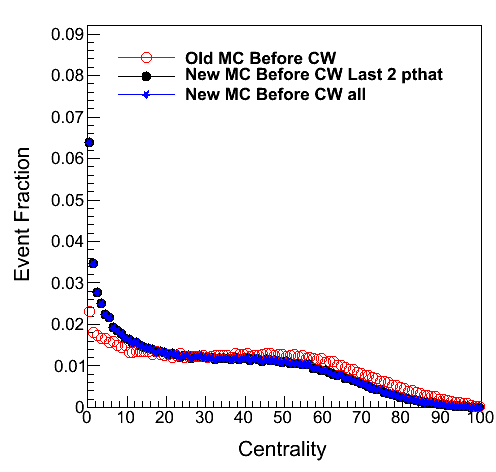
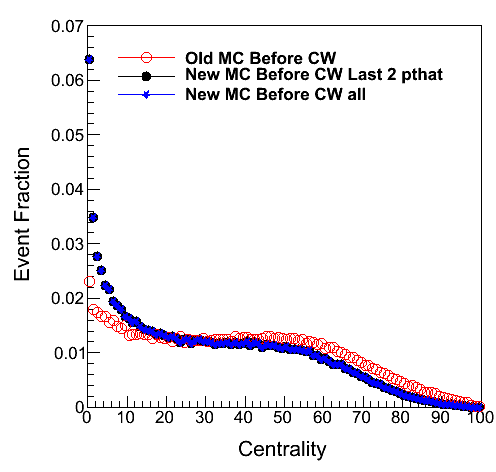
centrality debugging

diff --git a/jetRpA/RpA/NewMC/Event/pthatCentOrder.C b/jetRpA/RpA/NewMC/Event/pthatCentOrder.C
@@ -1,0 +1,92 @@
+#include "/home/xuq7/HI/jetRpA/RpA/Quality/root_setting.h"
+void pthatCentOrder(){
+	gStyle->SetOptStat(kFALSE);
+	h1 = DrawTH1("hiBin",15);
+	h1->SetTitle("");
+	h1->GetXaxis()->SetTitleSize(0.05);
+	h1->GetYaxis()->SetTitleSize(0.05);
+	h1->GetXaxis()->SetTitle("Centrality");
+	h1->GetYaxis()->SetTitle("Event Fraction");
+	h1->GetXaxis()->SetRangeUser(0,100);
+	h1->GetYaxis()->SetRangeUser(0,0.07);
+
+	h2 = DrawTH1("hiBin",120);
+	h3 = DrawTH1("hiBin",460);
+	h1->SetMarkerStyle(20);
+	h1->SetMarkerColor(1);
+	h1->SetLineColor(1);
+	h2->SetMarkerStyle(29);
+	h2->SetMarkerColor(2);
+	h2->SetLineColor(2);
+	h3->SetMarkerStyle(24);
+	h3->SetMarkerColor(4);
+	h3->SetLineColor(4);
+	TCanvas *c1 = new TCanvas();
+	c1->cd();
+	h1->Draw("P");
+	h2->Draw("Psame");
+	h3->Draw("Psame");
+	TLegend *leg = new TLegend(0.5,0.6,0.8,0.8);
+	leg->AddEntry(h1,"pthat = 15","p");
+	leg->AddEntry(h2,"pthat = 120","p");
+	leg->AddEntry(h3,"pthat = 460","p");
+	leg->SetBorderSize(0);
+	leg->SetFillColor(0);
+	leg->SetTextSize(0.04);
+	leg->Draw("same");
+	c1->Print("hiBinpthatOrder.png");
+
+	h1_ = DrawTH1("hiHFplusEta4",15);
+	h1_->SetTitle("");
+        h1_->GetXaxis()->SetTitleSize(0.05);
+        h1_->GetYaxis()->SetTitleSize(0.05);
+        h1_->GetXaxis()->SetTitle("Centrality");
+        h1_->GetYaxis()->SetTitle("Event Fraction");
+        h1_->GetXaxis()->SetRangeUser(0,100);
+	h2_ = DrawTH1("hiHFplusEta4",120);
+	h3_ = DrawTH1("hiHFplusEta4",460);
+
+	TCanvas *c2 = new TCanvas();
+	c2->cd();
+	c2->SetLogy();
+	h1_->GetXaxis()->SetTitle("HF Energy #eta>4");
+	h1_->GetYaxis()->SetTitle("Event Fraction");
+	h1_->GetYaxis()->SetRangeUser(1e-6,1e-1);
+	h1_->SetMarkerStyle(20);
+        h1_->SetMarkerColor(1);
+        h1_->SetLineColor(1);
+        h2_->SetMarkerStyle(29);
+        h2_->SetMarkerColor(2);
+        h2_->SetLineColor(2);
+        h3_->SetMarkerStyle(24);
+        h3_->SetMarkerColor(4);
+        h3_->SetLineColor(4);
+        h1_->Draw("P");
+        h2_->Draw("Psame");
+        h3_->Draw("Psame");
+        leg->Draw("same");
+	c2->Print("hiHFpthatOrder.png");
+}
+
+TH1D* DrawTH1(TString var, int pthat){
+	TFile *f = TFile::Open(Form("/cms/store/user/ymao/pA5TEV/Mixing/STARTHI53V27/merged/QCD_Pt_%d_TuneZ2_Mix_5p02TeV_pythia.root",pthat));
+	TTree *t = (TTree*)f->Get("hiEvtAnalyzer/HiTree");
+	Float_t hiHFplusEta4, vz;
+	Int_t hiBin;
+	TH1D* h = new TH1D("h","h",100,0,100);
+	t->SetBranchAddress("hiHFplusEta4",&hiHFplusEta4);
+	t->SetBranchAddress("vz",&vz);
+	t->SetBranchAddress("hiBin",&hiBin);
+	for(int Ev=0;Ev<t->GetEntries();Ev++){
+		t->GetEntry(Ev);
+		if(TMath::Abs(vz)>=15) continue;
+		if(var == "hiBin")
+		h->Fill(hiBin);
+		else if(var == "hiHFplusEta4")
+		h->Fill(hiHFplusEta4);
+	}
+//	t->Draw(Form("%s>>h",var.Data()),"TMath::Abs(vz)<15");
+//	h = (TH1D*)gDirectory->Get("h");
+	h->Scale(1.0/h->Integral());
+	return h;
+}

diff --git a/jetRpA/RpA/NewMC/Event/OldvsNewCentpthat.C b/jetRpA/RpA/NewMC/Event/OldvsNewCentpthat.C
@@ -1,0 +1,68 @@
+#include "/home/xuq7/HI/jetRpA/RpA/Quality/root_setting.h"
+void OldvsNewCentpthat(){
+	gStyle->SetOptStat(kFALSE);
+	h1 = DrawTH1(0,"hiHFplusEta4",120);
+	h1_old = DrawTH1(1,"hiHFplusEta4",120);
+	h1->SetTitle("");
+	h1->GetXaxis()->SetTitleSize(0.05);
+	h1->GetYaxis()->SetTitleSize(0.05);
+	h1->GetXaxis()->SetTitle("Centrality");
+	h1->GetYaxis()->SetTitle("ratio, New/Old");
+	h1->GetXaxis()->SetRangeUser(0,100);
+	h1->GetYaxis()->SetRangeUser(0,2);
+
+//	h2 = DrawTH1("hiBin",120);
+//	h3 = DrawTH1("hiBin",460);
+	h1->SetMarkerStyle(20);
+	h1->SetMarkerSize(1.1);
+	h1->SetMarkerColor(1);
+	h1->SetLineColor(1);
+//	h2->SetMarkerStyle(29);
+//	h2->SetMarkerColor(2);
+//	h2->SetLineColor(2);
+//	h3->SetMarkerStyle(24);
+//	h3->SetMarkerColor(4);
+//	h3->SetLineColor(4);
+	TH1D* ratio = (TH1D*)h1->Clone("ratio");
+	ratio->Divide(h1_old);
+	TCanvas *c1 = new TCanvas();
+	c1->cd();
+	TLegend *leg = new TLegend(0.65,0.6,0.8,0.8);
+	leg->AddEntry(h1,"pthat = 120","p");
+	leg->SetBorderSize(0);
+	leg->SetFillColor(0);
+	leg->SetTextSize(0.04);
+	TLine *l = new TLine(0,1,100,1);
+	l->SetLineStyle(2);
+	ratio->Draw();
+	leg->Draw("same");
+	l->Draw("same");
+	c1->Print("pthat120ratio.png");
+}
+
+TH1D* DrawTH1(bool isOld, TString var, int pthat){
+	if(!isOld)
+	TFile *f = TFile::Open(Form("/cms/store/user/ymao/pA5TEV/Mixing/STARTHI53V27/merged/QCD_Pt_%d_TuneZ2_Mix_5p02TeV_pythia.root",pthat));
+	else
+	TFile *f = TFile::Open(Form("/cms/store/user/qixu/jetRpA/OldForest/pPb_Full_BTagForest%d_Fix3output.root",pthat));
+	TTree *t = (TTree*)f->Get("hiEvtAnalyzer/HiTree");
+	Float_t hiHFplusEta4, vz;
+	Int_t hiBin;
+	TH1D* h = new TH1D("h","h",100,0,100);
+	h->Sumw2();
+	t->SetBranchAddress("hiHFplusEta4",&hiHFplusEta4);
+	t->SetBranchAddress("vz",&vz);
+	t->SetBranchAddress("hiBin",&hiBin);
+	for(int Ev=0;Ev<t->GetEntries();Ev++){
+		t->GetEntry(Ev);
+		if(TMath::Abs(vz)>=15) continue;
+		if(var == "hiBin")
+		h->Fill(hiBin);
+		else if(var == "hiHFplusEta4")
+		h->Fill(hiHFplusEta4);
+	}
+//	t->Draw(Form("%s>>h",var.Data()),"TMath::Abs(vz)<15");
+//	h = (TH1D*)gDirectory->Get("h");
+	h->Scale(1.0/h->Integral());
+	return h;
+}

diff --git a/jetRpA/RpA/NewMC/Event/pthatCent.C b/jetRpA/RpA/NewMC/Event/pthatCent.C
@@ -1,6 +1,6 @@
 #include "/home/xuq7/HI/jetRpA/RpA/Quality/root_setting.h"
 #include "/home/xuq7/HI/jetRpA/RpA/NewMC/produceandcheck/file.h"
-
+#include <iomanip>
 void pthatCent(){
 gStyle->SetOptStat(kFALSE);
 gStyle->SetErrorX(0);
@@ -71,7 +71,7 @@ hFrame->GetXaxis()->SetTitle("Centrality");
 hFrame->GetYaxis()->SetTitle("Event Fraction");
 hFrame->GetXaxis()->SetLimits(0,100);
 //hFrame->GetXaxis()->SetLimits(-3,3);
-hFrame->GetYaxis()->SetRangeUser(0,9.2e-2);
+hFrame->GetYaxis()->SetRangeUser(0,0.07);
 c1->cd(1);
 hFrame->DrawCopy();
 histo0->Draw("same");
@@ -104,6 +104,7 @@ hFrame->DrawCopy();
 TH1F* ratio = (TH1F*)histo0->Clone(Form("%sratio",coll.Data()));
 ratio->SetTitle("");
 ratio->Divide(histo2);
+
 ratio->Draw();
 leg2->AddEntry(ratio,"Last 2 pthat/all","lp");
 leg2->Draw("same");
